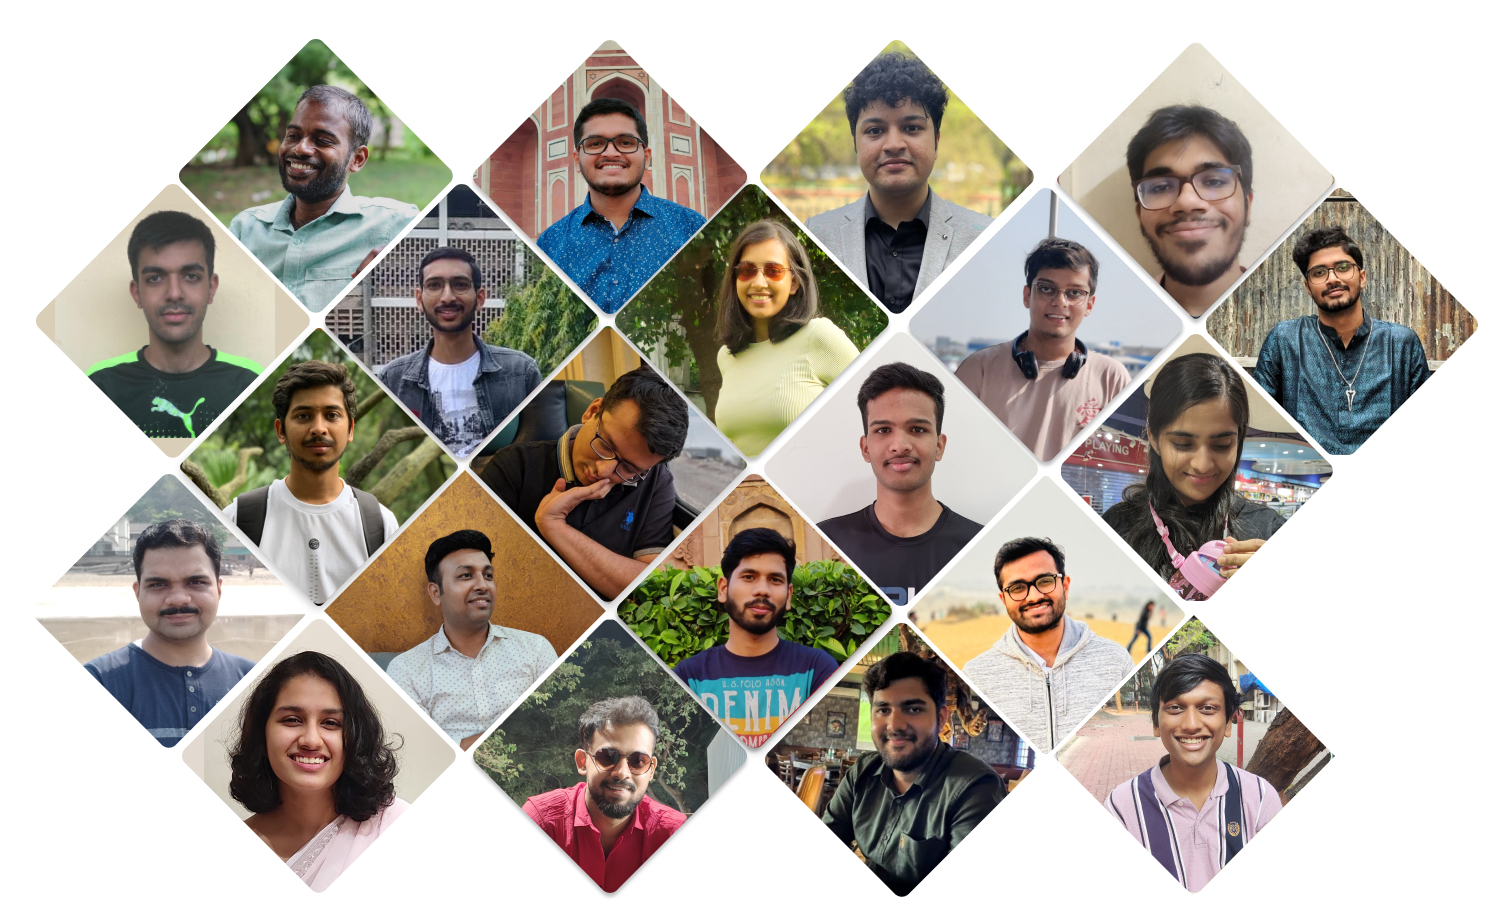
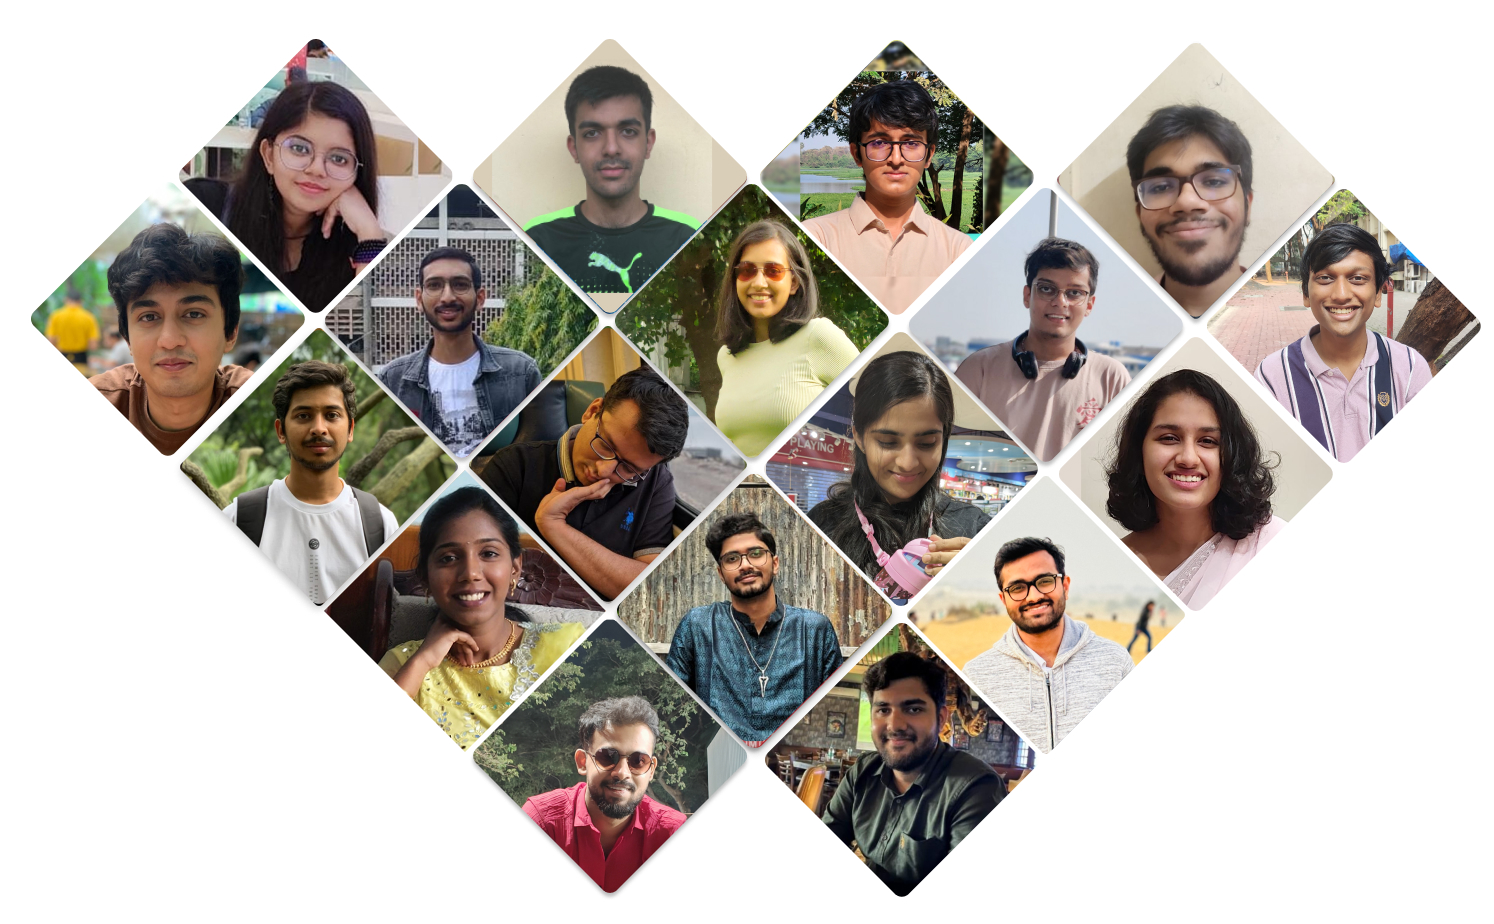
updated carousel and group image

diff --git a/pages/home.md b/pages/home.md
@@ -9,6 +9,9 @@ carousels:
     - image: /uploads/slider/group.jpg
     - image: /uploads/slider/group2.jpg
     - image: /uploads/slider/group4.jpg
+    - image: /uploads/slider/img43.jpg
+    - image: /uploads/slider/img42.jpg
+    - image: /uploads/slider/img41.jpg
     - image: /uploads/slider/img40.jpg
     - image: /uploads/slider/img39.jpg
     - image: /uploads/slider/img38.jpg
